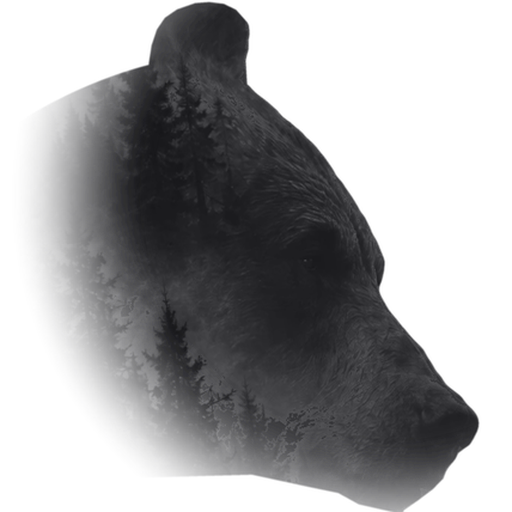
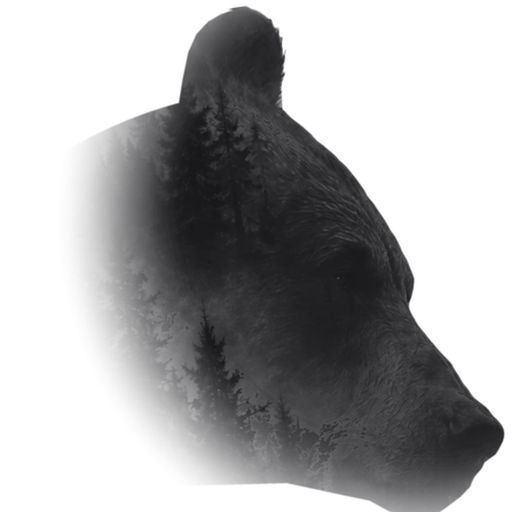
Сайт: значок — ухо с пушистым краем, как на обложке; медведь на всю высоту значка
Claude-Session: https://claude.ai/code/session_01Uu83MB45nkJX1tXJZPePva

diff --git a/site/index.html b/site/index.html
@@ -7,9 +7,9 @@
 <meta name="description" content="Лана Фрейтаг — любовные романы. Новые главы на Литнете.">
 <meta name="theme-color" content="#fbfbfd" media="(prefers-color-scheme: light)">
 <meta name="theme-color" content="#0f0f13" media="(prefers-color-scheme: dark)">
-<link rel="icon" type="image/png" sizes="32x32" href="icon-32.png?11">
-<link rel="icon" type="image/png" sizes="512x512" href="icon-512.png?11">
-<link rel="apple-touch-icon" href="icon-bear.png?11">
+<link rel="icon" type="image/png" sizes="32x32" href="icon-32.png?12">
+<link rel="icon" type="image/png" sizes="512x512" href="icon-512.png?12">
+<link rel="apple-touch-icon" href="icon-bear.png?12">
 <link rel="preconnect" href="https://fonts.googleapis.com">
 <link rel="preconnect" href="https://fonts.gstatic.com" crossorigin>
 <link rel="stylesheet" href="https://fonts.googleapis.com/css2?family=Cormorant:ital,wght@1,400;1,500&family=Golos+Text:wght@400;500&family=Oranienbaum&display=swap">

diff --git a/site/admin/index.html b/site/admin/index.html
@@ -5,9 +5,9 @@
 <meta name="viewport" content="width=device-width, initial-scale=1, viewport-fit=cover">
 <meta name="robots" content="noindex">
 <title>Сайт · админка</title>
-<link rel="icon" type="image/png" sizes="32x32" href="../icon-32.png?11">
-<link rel="icon" type="image/png" sizes="512x512" href="../icon-512.png?11">
-<link rel="apple-touch-icon" href="../icon-bear.png?11">
+<link rel="icon" type="image/png" sizes="32x32" href="../icon-32.png?12">
+<link rel="icon" type="image/png" sizes="512x512" href="../icon-512.png?12">
+<link rel="apple-touch-icon" href="../icon-bear.png?12">
 <link rel="preconnect" href="https://fonts.googleapis.com">
 <link rel="preconnect" href="https://fonts.gstatic.com" crossorigin>
 <link rel="stylesheet" href="https://fonts.googleapis.com/css2?family=Cormorant:ital,wght@1,400;1,500&family=Golos+Text:wght@400;500&family=Oranienbaum&display=swap">

diff --git a/AGENTS.md b/AGENTS.md
@@ -37,7 +37,7 @@
   последний призыв; на телефоне кнопка «Читать» внизу появляется, когда главная ушла из виду.
   Пустые разделы не показываются. Цитаты, отрывки, отзывы — только настоящие (из книг/от читателей), не выдумывать.
   Первый экран главной — без обложек книг: слева заголовок и кнопка, справа **медведь в тумане над лесом — кадр с её обложки
-  «Звериная тропа для двоих»** (`site/hero-bear.jpg`, без лица героини и названия; значок вкладки — как у крупных сайтов: прозрачный фон, крупно (на весь значок) настоящая голова медведя с той же обложки (глаз, нос, шерсть; затылок уходит в туман), с чётким силуэтом (контур профиля с обложки, ухо низкое и широкое, полукругом (высокое круглое на ножке она назвала неприличным, «палку» — тоже), челюсть точно по обложке: низ челюсти от подбородка идёт назад и ВВЕРХ (линия через x 905→848 при y 679→650 в координатах обложки), шеи нет; голова приподнята совсем чуть-чуть (на 8°); ухо — сглаженный контур уха с обложки, округлое, умеренной высоты, чуть отклонено назад; рисунок значка (вариант «ухо с обложки, голова на 8° выше») она утвердила — НЕ менять; «крупнее» = тот же рисунок без пустых полей вокруг (обрезка по краю медведя), а не новый кадр (толстую шею и второй подбородок она назвала «жирный»), затылок и низ растворяются мягко по кругу от морды (прямоугольные края растушёвки — нет), фактура внутри едва заметная, голова чуть приподнята — морда вперёд, внутри фактура обложки; затылок и шея тают к краю) — размытая голова во вкладке «сливается»; белый ореол на розовой вкладке некрасив; плитку под значком она не хочет; для iPhone (`icon-bear.png`) — на светлом фоне; чёрный силуэт (и обведённый, и нарисованный) она отвергла, мелкую голову в круге — тоже (`site/icon-32.png`, `icon-bear.png` 180, `icon-512.png`; рисованного кодом медведя она отвергла))
+  «Звериная тропа для двоих»** (`site/hero-bear.jpg`, без лица героини и названия; значок вкладки — как у крупных сайтов: прозрачный фон, крупно (на весь значок) настоящая голова медведя с той же обложки (глаз, нос, шерсть; затылок уходит в туман), с чётким силуэтом (контур профиля с обложки, ухо низкое и широкое, полукругом (высокое круглое на ножке она назвала неприличным, «палку» — тоже), челюсть точно по обложке: низ челюсти от подбородка идёт назад и ВВЕРХ (линия через x 905→848 при y 679→650 в координатах обложки), шеи нет; голова приподнята совсем чуть-чуть (на 8°); ухо — настоящее с обложки: передняя сторона и верх — пушистый край самой фотографии (надпись над ухом стёрта), задняя — плавной дугой в макушку (гладкий нарисованный контур она назвала неестественным); рисунок значка (вариант «ухо с обложки, голова на 8° выше») она утвердила — НЕ менять; «крупнее» = тот же рисунок без пустых полей вокруг (обрезка по краю медведя), а не новый кадр (толстую шею и второй подбородок она назвала «жирный»), затылок и низ растворяются мягко по кругу от морды (прямоугольные края растушёвки — нет), фактура внутри едва заметная, голова чуть приподнята — морда вперёд, внутри фактура обложки; затылок и шея тают к краю) — размытая голова во вкладке «сливается»; белый ореол на розовой вкладке некрасив; плитку под значком она не хочет; для iPhone (`icon-bear.png`) — на светлом фоне; чёрный силуэт (и обведённый, и нарисованный) она отвергла, мелкую голову в круге — тоже (`site/icon-32.png`, `icon-bear.png` 180, `icon-512.png`; рисованного кодом медведя она отвергла))
   или другая картинка `photo`. Картинка 1300×1000: только голова медведя (ели ВНУТРИ силуэта — как на обложке, можно) из обложки
   в полном разрешении, мягко выходит из лёгкого тумана; дымка обложки переведена в белый (смешивание multiply с фоном).
   Текст и медведь — одна композиция строго по центру экрана (сетка 540px + 500px, медведь заходит под текст на 48px, текст сдвинут вправо до 48px — у медведя справа туман, так визуальный центр совпадает с центром экрана); картинка — в той же сетке, не absolute. У `.hero-in` нет z-index — иначе multiply не смешивается с фоном и виден белый прямоугольник.
